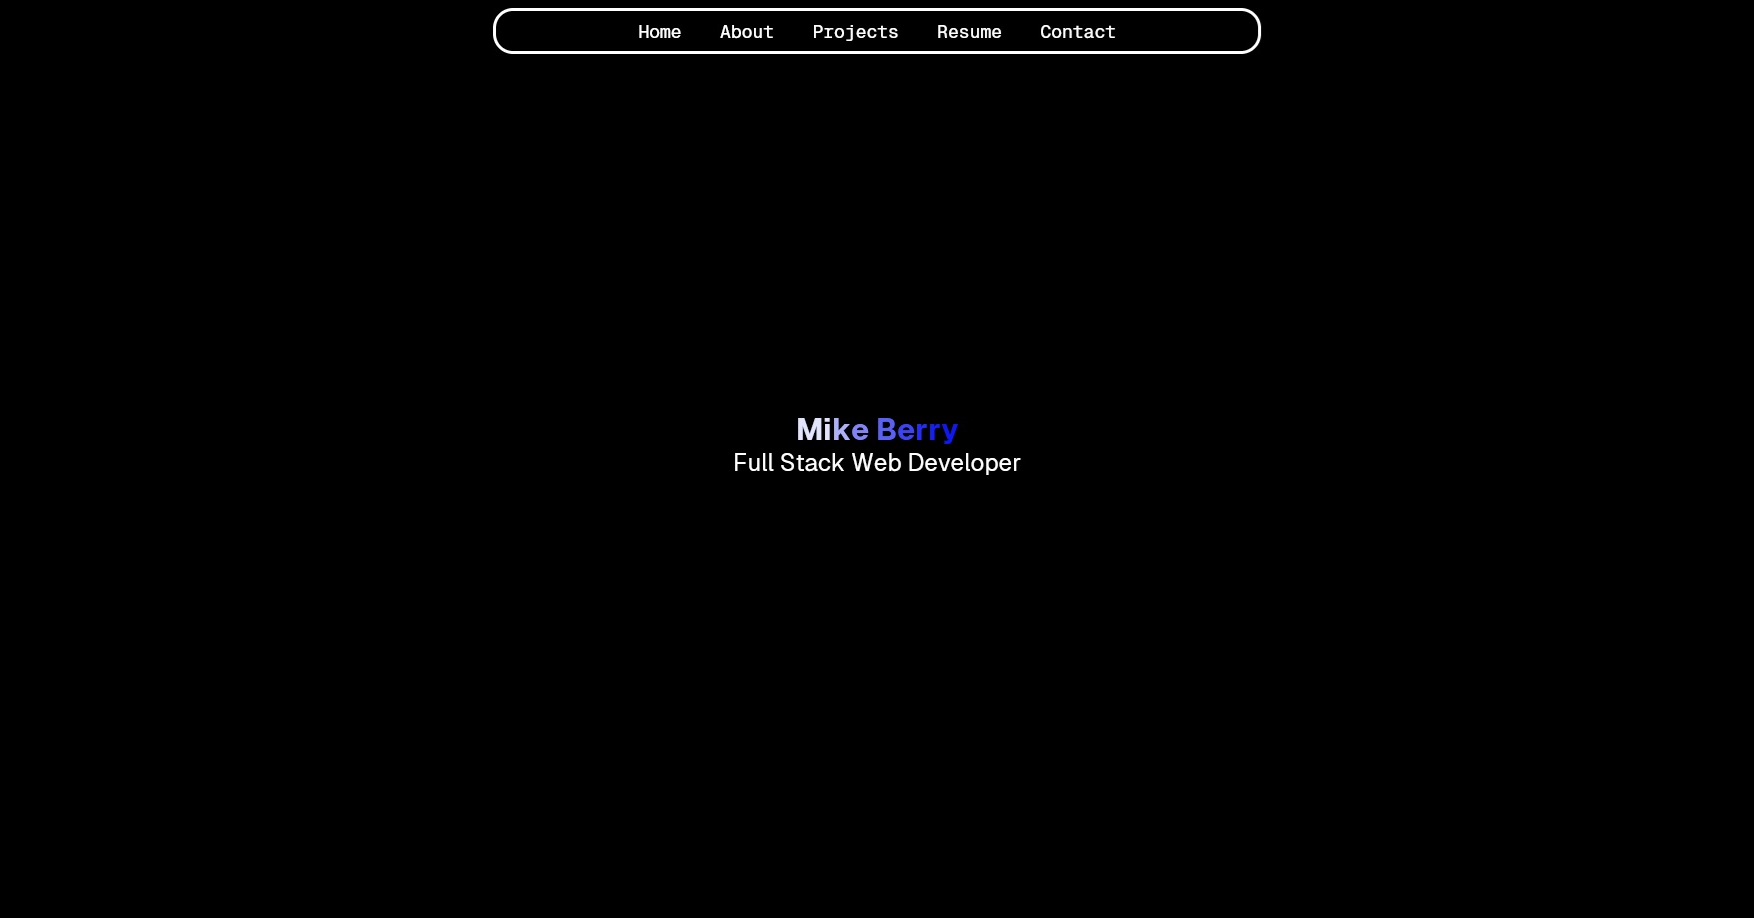
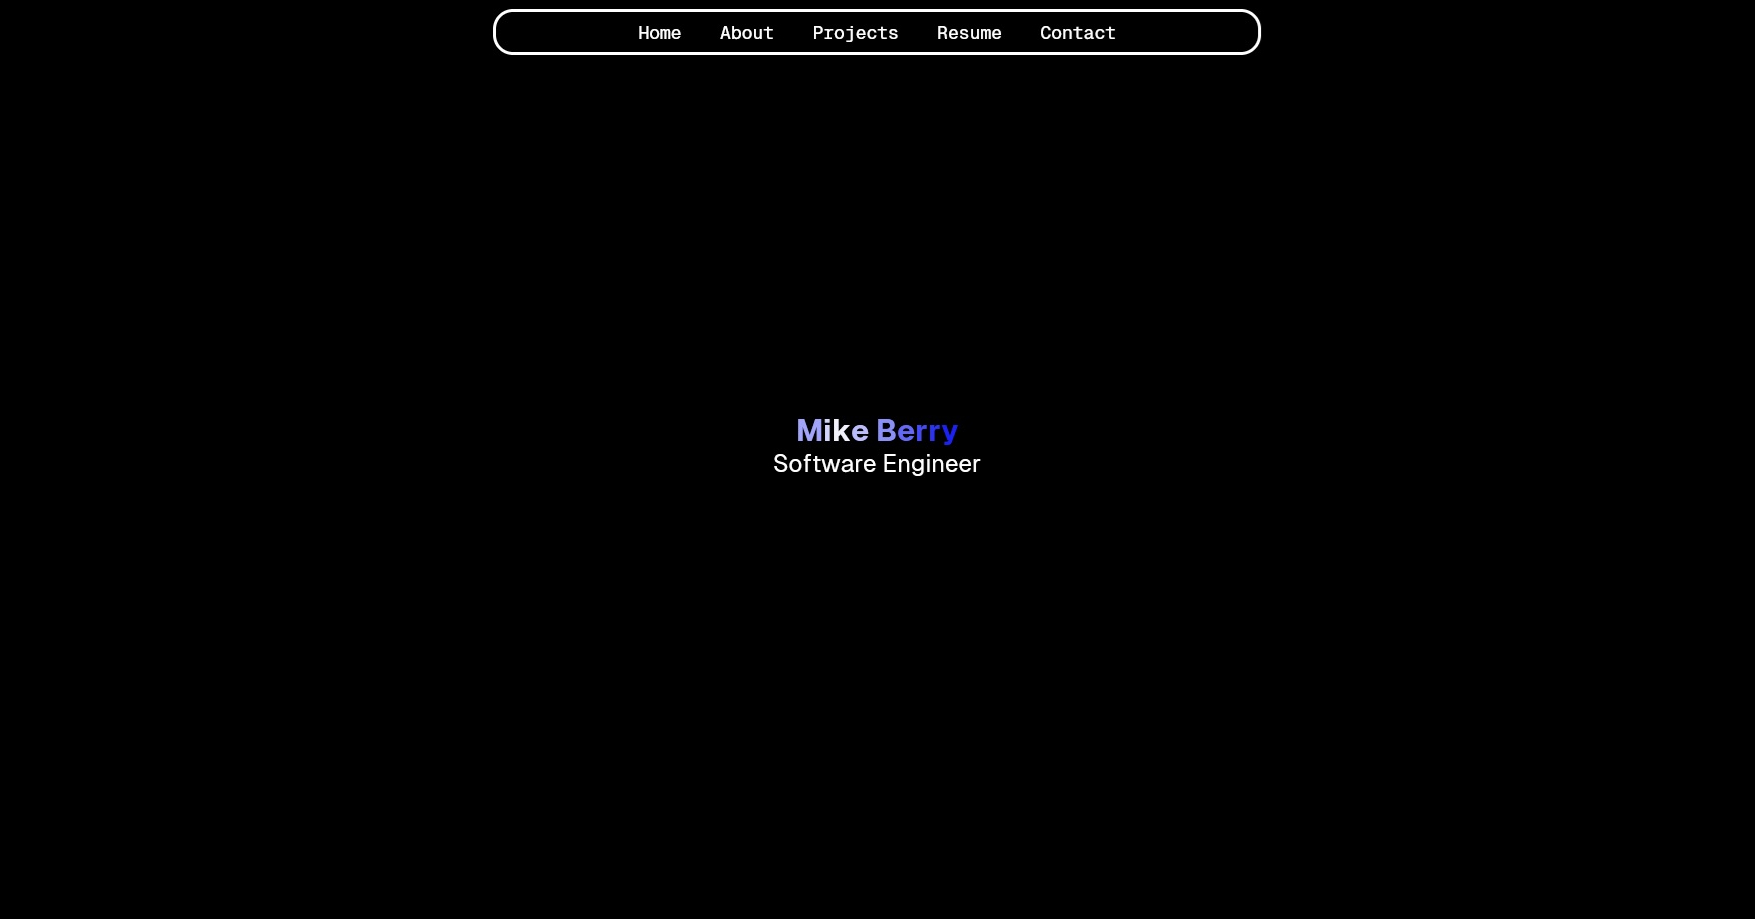
new meta image to match changed verbage

Changed region(s): [[0.3387, 0.0305, 0.6465, 0.061], [0.431, 0.4575, 0.5849, 0.5185], [0.2771, 0.0305, 0.3079, 0.061]]

diff --git a/build/404.html b/build/404.html
@@ -15,10 +15,10 @@
 		/>
 		<link rel="icon" href="/svelte-portfolio/favicon.png" />
 		<meta name="viewport" content="width=device-width, initial-scale=1" />
-		<link href="/svelte-portfolio/_app/immutable/entry/start.BCq4OiJ0.js" rel="modulepreload">
-		<link href="/svelte-portfolio/_app/immutable/chunks/C343g4KG.js" rel="modulepreload">
+		<link href="/svelte-portfolio/_app/immutable/entry/start.s6yPxx8Y.js" rel="modulepreload">
+		<link href="/svelte-portfolio/_app/immutable/chunks/BtD289fX.js" rel="modulepreload">
 		<link href="/svelte-portfolio/_app/immutable/chunks/DebJT4M6.js" rel="modulepreload">
-		<link href="/svelte-portfolio/_app/immutable/entry/app.Bze27Roj.js" rel="modulepreload">
+		<link href="/svelte-portfolio/_app/immutable/entry/app.aKdLm_2L.js" rel="modulepreload">
 		<link href="/svelte-portfolio/_app/immutable/chunks/DZv6HY_q.js" rel="modulepreload">
 		<link href="/svelte-portfolio/_app/immutable/chunks/DdAs8M0J.js" rel="modulepreload">
 		<link href="/svelte-portfolio/_app/immutable/chunks/DXaaiIXd.js" rel="modulepreload">
@@ -32,7 +32,7 @@
 		<div class="w-[100vw]">
 			<script>
 				{
-					__sveltekit_asyhf9 = {
+					__sveltekit_wibqeu = {
 						base: "/svelte-portfolio",
 						assets: "/svelte-portfolio"
 					};
@@ -40,8 +40,8 @@
 					const element = document.currentScript.parentElement;
 
 					Promise.all([
-						import("/svelte-portfolio/_app/immutable/entry/start.BCq4OiJ0.js"),
-						import("/svelte-portfolio/_app/immutable/entry/app.Bze27Roj.js")
+						import("/svelte-portfolio/_app/immutable/entry/start.s6yPxx8Y.js"),
+						import("/svelte-portfolio/_app/immutable/entry/app.aKdLm_2L.js")
 					]).then(([kit, app]) => {
 						kit.start(app, element);
 					});

diff --git a/build/index.html b/build/index.html
@@ -15,10 +15,10 @@
 		/>
 		<link rel="icon" href="./favicon.png" />
 		<meta name="viewport" content="width=device-width, initial-scale=1" />
-		<link href="./_app/immutable/entry/start.BCq4OiJ0.js" rel="modulepreload">
-		<link href="./_app/immutable/chunks/C343g4KG.js" rel="modulepreload">
+		<link href="./_app/immutable/entry/start.s6yPxx8Y.js" rel="modulepreload">
+		<link href="./_app/immutable/chunks/BtD289fX.js" rel="modulepreload">
 		<link href="./_app/immutable/chunks/DebJT4M6.js" rel="modulepreload">
-		<link href="./_app/immutable/entry/app.Bze27Roj.js" rel="modulepreload">
+		<link href="./_app/immutable/entry/app.aKdLm_2L.js" rel="modulepreload">
 		<link href="./_app/immutable/chunks/DZv6HY_q.js" rel="modulepreload">
 		<link href="./_app/immutable/chunks/DdAs8M0J.js" rel="modulepreload">
 		<link href="./_app/immutable/chunks/DXaaiIXd.js" rel="modulepreload">
@@ -48,7 +48,7 @@
 			
 			<script>
 				{
-					__sveltekit_asyhf9 = {
+					__sveltekit_wibqeu = {
 						base: new URL(".", location).pathname.slice(0, -1),
 						assets: "/svelte-portfolio"
 					};
@@ -56,8 +56,8 @@
 					const element = document.currentScript.parentElement;
 
 					Promise.all([
-						import("./_app/immutable/entry/start.BCq4OiJ0.js"),
-						import("./_app/immutable/entry/app.Bze27Roj.js")
+						import("./_app/immutable/entry/start.s6yPxx8Y.js"),
+						import("./_app/immutable/entry/app.aKdLm_2L.js")
 					]).then(([kit, app]) => {
 						kit.start(app, element, {
 							node_ids: [0, 2],
